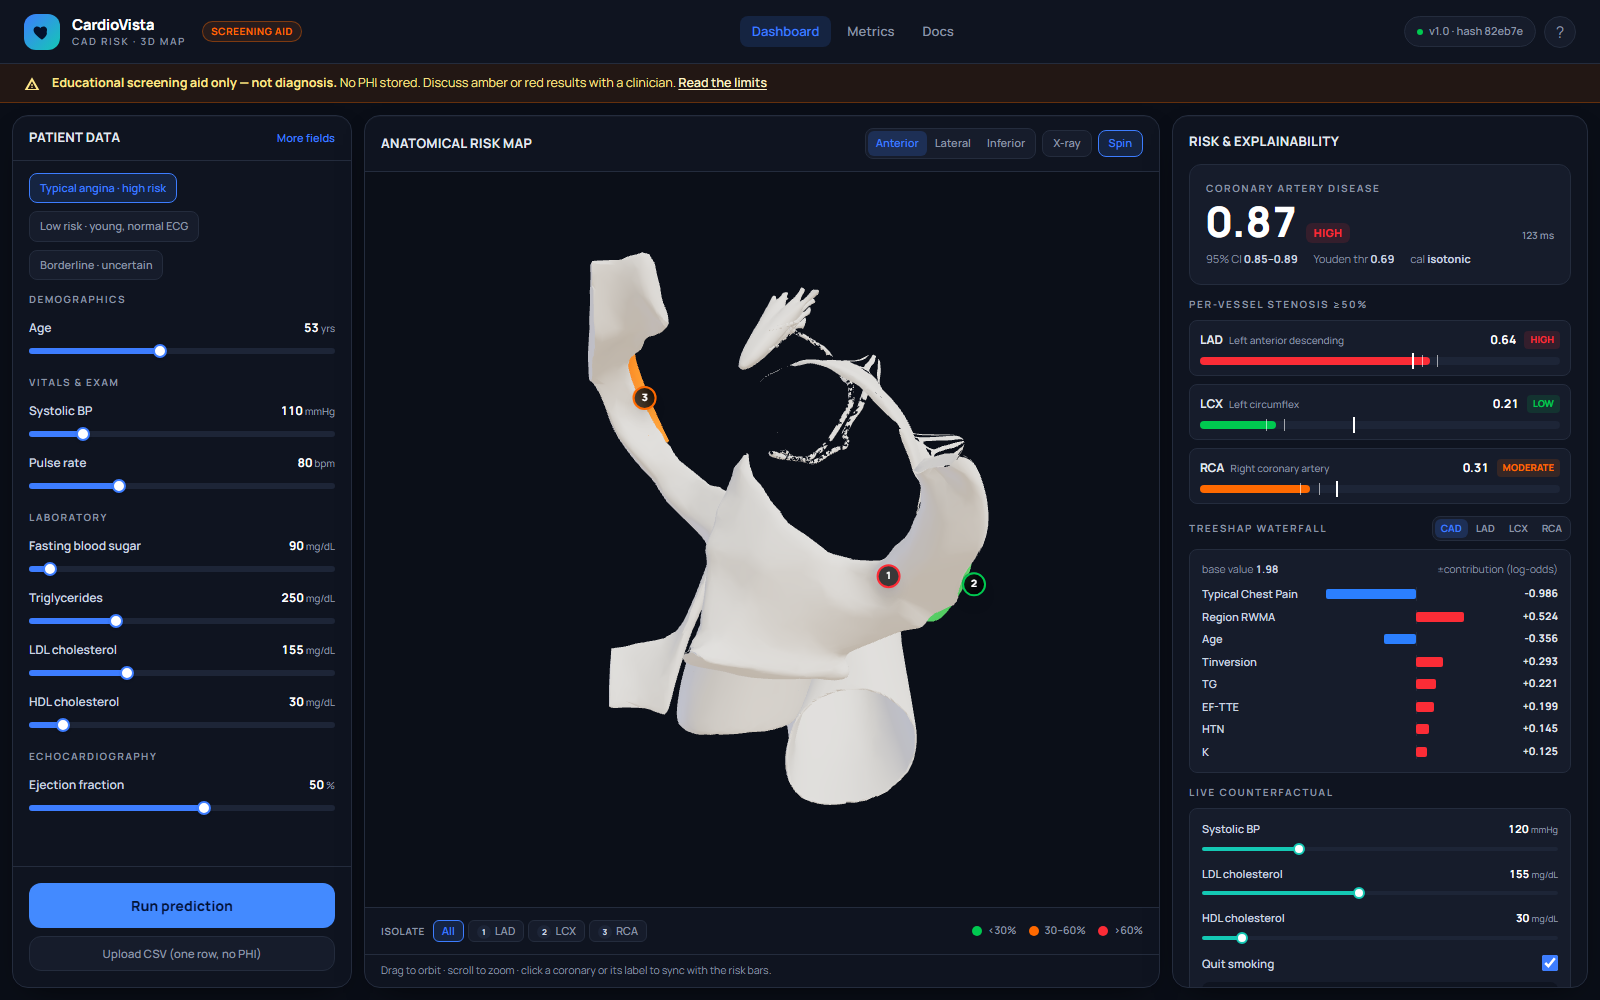
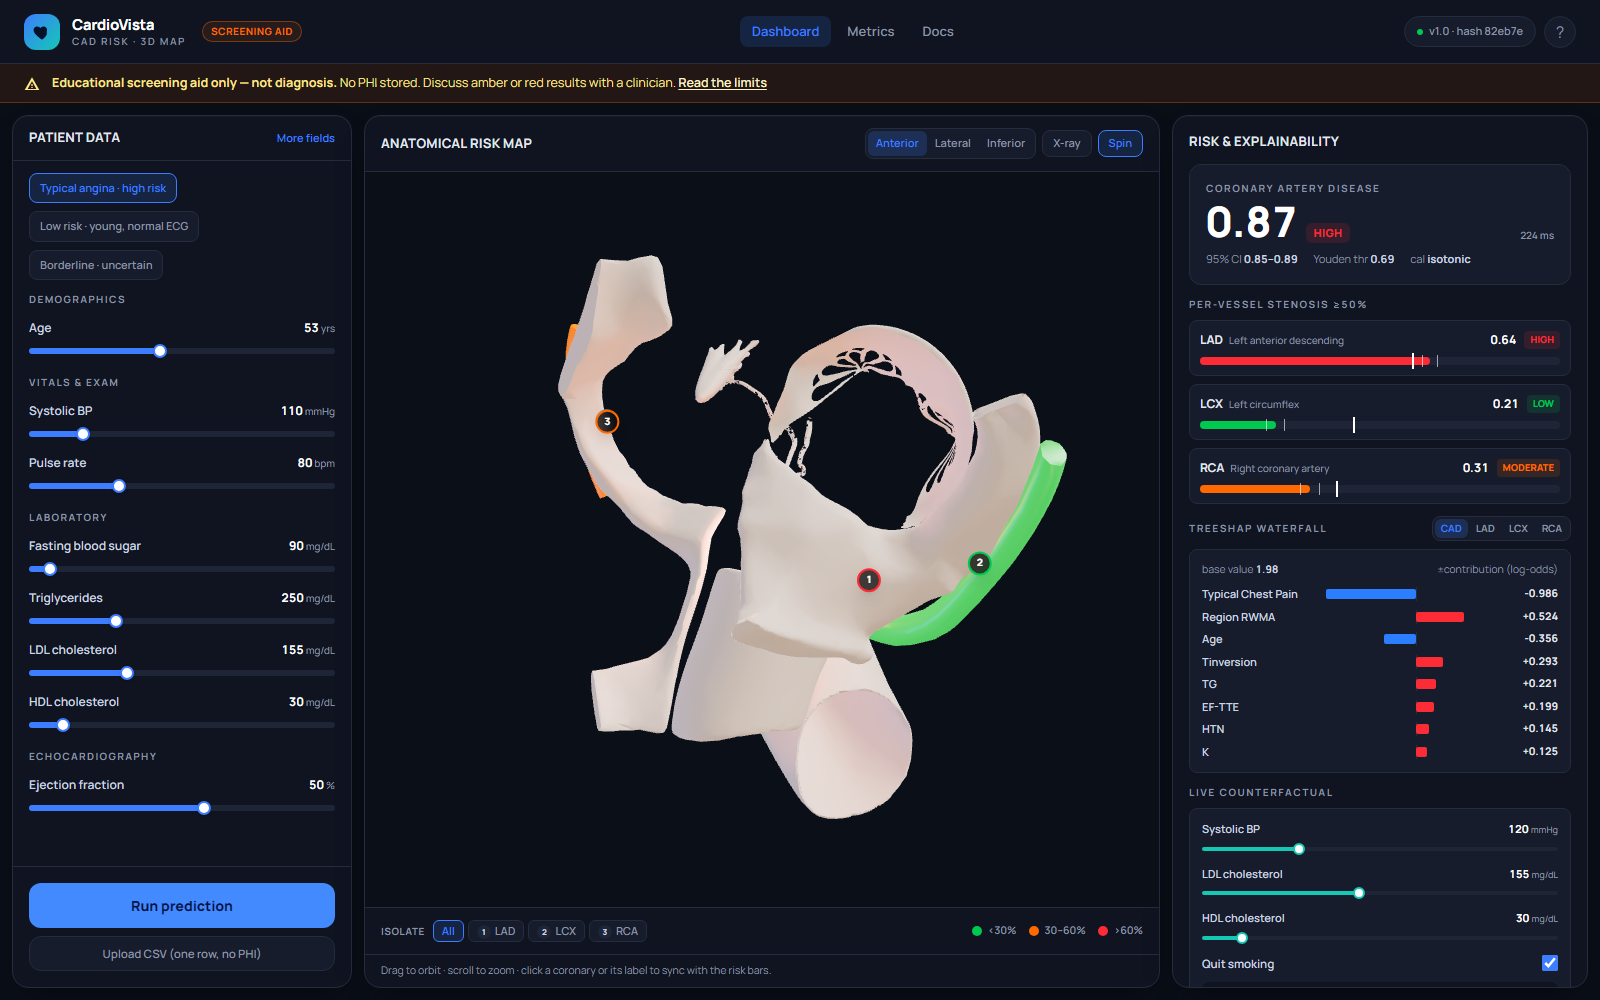
Heart readability: vessels proud of surface, tissue tone, textbook default view
- Thicken coronaries 1.55x + push 3.2 units outward (visible risk colours)
- Brighter vessel emissive; DoubleSide anatomy (no see-through gaps)
- Warm tissue tone + inner chamber glow + stronger hemisphere fill
- Default camera to front-below 3/4 (apex + aortic root read clearly)

Changed region(s): [[0.3438, 0.248, 0.6875, 0.837]]

diff --git a/web/src/components/HeartScene.tsx b/web/src/components/HeartScene.tsx
@@ -48,17 +48,25 @@ function computeLayout(nodes: Record<string, THREE.Mesh>) {
   const position = rotatedCenter.clone().multiplyScalar(-scale);
 
   const labelDots: Record<string, THREE.Vector3> = {};
+  // per-vessel exaggerated placement so thin coronaries read on the surface:
+  // thicken about their own centre + push just proud of the myocardium
+  const vesselFrames: Record<string, { center: THREE.Vector3; push: THREE.Vector3 }> = {};
   for (const v of VESSEL_CONFIG) {
     const g = nodes[v.meshName]?.geometry;
     if (!g) continue;
     g.computeBoundingBox();
     const bb = g.boundingBox as THREE.Box3;
-    // anchor each marker at a distinct anatomical end so neighbours separate
-    if (v.head === "lad") labelDots[v.head] = new THREE.Vector3((bb.min.x + bb.max.x) / 2, bb.max.y, (bb.min.z + bb.max.z) / 2);
-    else if (v.head === "lcx") labelDots[v.head] = new THREE.Vector3(bb.max.x, (bb.min.y + bb.max.y) / 2, (bb.min.z + bb.max.z) / 2);
-    else labelDots[v.head] = bb.getCenter(new THREE.Vector3());
+    let c: THREE.Vector3;
+    if (v.head === "lad") c = new THREE.Vector3((bb.min.x + bb.max.x) / 2, bb.max.y, (bb.min.z + bb.max.z) / 2);
+    else if (v.head === "lcx") c = new THREE.Vector3(bb.max.x, (bb.min.y + bb.max.y) / 2, (bb.min.z + bb.max.z) / 2);
+    else c = bb.getCenter(new THREE.Vector3());
+    labelDots[v.head] = c.clone();
+    const dir = c.clone().sub(center);
+    if (dir.lengthSq() < 1e-6) dir.set(0, 1, 0);
+    dir.normalize();
+    vesselFrames[v.head] = { center: c, push: dir.multiplyScalar(3.2) };
   }
-  return { scale, position, labelDots };
+  return { scale, position, labelDots, vesselFrames };
 }
 
 function Model({ probs, selected, isolate, xray, autoRotate, orientation, onSelectVessel }: SceneProps) {
@@ -69,14 +77,15 @@ function Model({ probs, selected, isolate, xray, autoRotate, orientation, onSele
   const anatomyMat = useMemo(
     () =>
       new THREE.MeshStandardMaterial({
-        color: new THREE.Color("#F4EEE3"),
-        roughness: 0.55,
+        color: new THREE.Color("#EDD9CB"),
+        roughness: 0.5,
         metalness: 0.0,
-        emissive: new THREE.Color("#2a2118"),
-        emissiveIntensity: 0.5,
+        emissive: new THREE.Color("#2a1d14"),
+        emissiveIntensity: 0.45,
         transparent: true,
         opacity: xray ? 0.12 : 1,
         depthWrite: !xray,
+        side: THREE.DoubleSide,
       }),
     [xray],
   );
@@ -97,6 +106,7 @@ function Model({ probs, selected, isolate, xray, autoRotate, orientation, onSele
 
       {VESSEL_CONFIG.map((v) => {
         const p = probs ? probs[v.head].p : 0.0;
+        const frame = layout.vesselFrames[v.head];
         return (
           <VesselMesh
             key={v.head}
@@ -108,6 +118,7 @@ function Model({ probs, selected, isolate, xray, autoRotate, orientation, onSele
             isSelected={selected === v.head}
             reduced={reduced}
             onSelect={onSelectVessel}
+            frame={frame}
           />
         );
       })}
@@ -159,9 +170,12 @@ interface VesselMeshProps {
   isSelected: boolean;
   reduced: boolean;
   onSelect: (head: HeadName) => void;
+  frame?: { center: THREE.Vector3; push: THREE.Vector3 };
 }
 
-function VesselMesh({ geometry, head, p, color, dimmed, isSelected, reduced, onSelect }: VesselMeshProps) {
+const VESSEL_THICKEN = 1.55;
+
+function VesselMesh({ geometry, head, p, color, dimmed, isSelected, reduced, onSelect, frame }: VesselMeshProps) {
   const mat = useRef<THREE.MeshStandardMaterial>(null);
   const target = useMemo(() => new THREE.Color(color), [color]);
   const [hover, setHover] = useState(false);
@@ -178,45 +192,54 @@ function VesselMesh({ geometry, head, p, color, dimmed, isSelected, reduced, onS
     mat.current.opacity = dimmed ? 0.18 : 1;
   });
 
-  if (!geometry) return null;
+if (!geometry) return null;
+
+  const center = frame?.center;
+  const push = frame?.push;
 
   return (
-    <mesh
-      geometry={geometry}
-      onClick={(e) => {
-        e.stopPropagation();
-        onSelect(head);
-      }}
-      onPointerOver={(e) => {
-        e.stopPropagation();
-        setHover(true);
-        document.body.style.cursor = "pointer";
-      }}
-      onPointerOut={() => {
-        setHover(false);
-        document.body.style.cursor = "auto";
-      }}
-      scale={hover ? 1.015 : 1}
-    >
-      <meshStandardMaterial
-        ref={mat}
-        color={color}
-        emissive={color}
-        emissiveIntensity={0.4 + 0.6 * p}
-        roughness={0.4}
-        metalness={0.0}
-        transparent
-        opacity={1}
-        depthWrite={!dimmed}
-        side={THREE.DoubleSide}
-      />
-      {isSelected ? (
-        <lineSegments>
-          <edgesGeometry args={[geometry]} />
-          <lineBasicMaterial color="#3D7DFF" transparent opacity={0.5} />
-        </lineSegments>
-      ) : null}
-    </mesh>
+    <group position={push ?? [0, 0, 0]}>
+      <group position={center ? [center.x, center.y, center.z] : [0, 0, 0]} scale={VESSEL_THICKEN}>
+        <mesh
+          geometry={geometry}
+          position={center ? [-center.x, -center.y, -center.z] : [0, 0, 0]}
+          onClick={(e) => {
+            e.stopPropagation();
+            onSelect(head);
+          }}
+          onPointerOver={(e) => {
+            e.stopPropagation();
+            setHover(true);
+            document.body.style.cursor = "pointer";
+          }}
+          onPointerOut={() => {
+            setHover(false);
+            document.body.style.cursor = "auto";
+          }}
+          scale={hover ? 1.06 : 1}
+          renderOrder={5}
+        >
+          <meshStandardMaterial
+            ref={mat}
+            color={color}
+            emissive={color}
+            emissiveIntensity={0.85 + 0.45 * p}
+            roughness={0.35}
+            metalness={0.0}
+            transparent
+            opacity={1}
+            depthWrite={!dimmed}
+            side={THREE.DoubleSide}
+          />
+          {isSelected ? (
+            <lineSegments>
+              <edgesGeometry args={[geometry]} />
+              <lineBasicMaterial color="#3D7DFF" transparent opacity={0.5} />
+            </lineSegments>
+          ) : null}
+        </mesh>
+      </group>
+    </group>
   );
 }
 
@@ -279,10 +302,12 @@ export function HeartScene(props: SceneProps) {
         onCreated={({ gl }) => gl.setClearColor("#0B0F18", 1)}
       >
         <ambientLight intensity={1.0} />
-        <hemisphereLight args={["#e8efff", "#4a3d30", 0.75]} />
+        <hemisphereLight args={["#e8efff", "#5a4a3c", 0.9]} />
         <directionalLight position={[4, 6, 5]} intensity={1.7} />
         <directionalLight position={[-5, -2, -4]} intensity={0.8} color="#6f9cff" />
         <directionalLight position={[0, -4, 3]} intensity={0.45} color="#ffd9b0" />
+        {/* warm tissue glow inside the chambers so hollows read as anatomy, not voids */}
+        <pointLight position={[0, 0, 0]} intensity={2.2} distance={4.5} decay={1.6} color="#c96a5a" />
         <Suspense fallback={null}>
           <Model
             probs={props.probs}

diff --git a/web/src/lib/vesselConfig.ts b/web/src/lib/vesselConfig.ts
@@ -59,10 +59,12 @@ export const VESSEL_BY_HEAD: Record<string, VesselConfig> = Object.fromEntries(
 export const ANATOMY_NODES = ["myocardium", "aorta", "pulmonary_trunk"];
 
 // Camera presets for orientation control.
+// Default is a textbook front-below three-quarter view: apex, ventricular
+// mass and aortic root all read clearly; straight-on anterior foreshortens.
 export const ORIENTATION_PRESETS: Record<string, { theta: number; phi: number; label: string }> = {
-  anterior: { theta: 0, phi: 1.35, label: "Anterior" },
-  lateral: { theta: -1.15, phi: 1.45, label: "Lateral" },
-  inferior: { theta: 0, phi: 2.3, label: "Inferior" },
+  anterior: { theta: -0.38, phi: 1.62, label: "Anterior" },
+  lateral: { theta: -1.15, phi: 1.35, label: "Lateral" },
+  inferior: { theta: -0.2, phi: 2.25, label: "Inferior" },
 };
 
 // Probability -> emissive/lerp colour (mirrors the green/amber/red banding).
